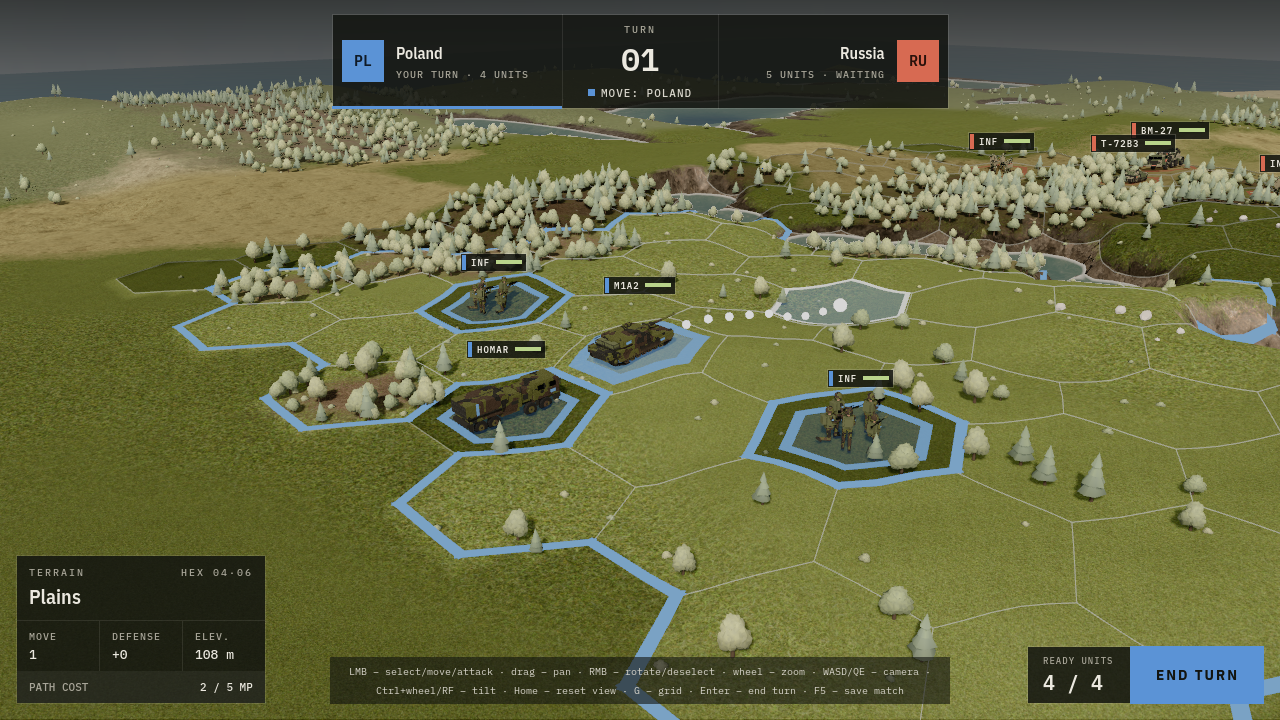
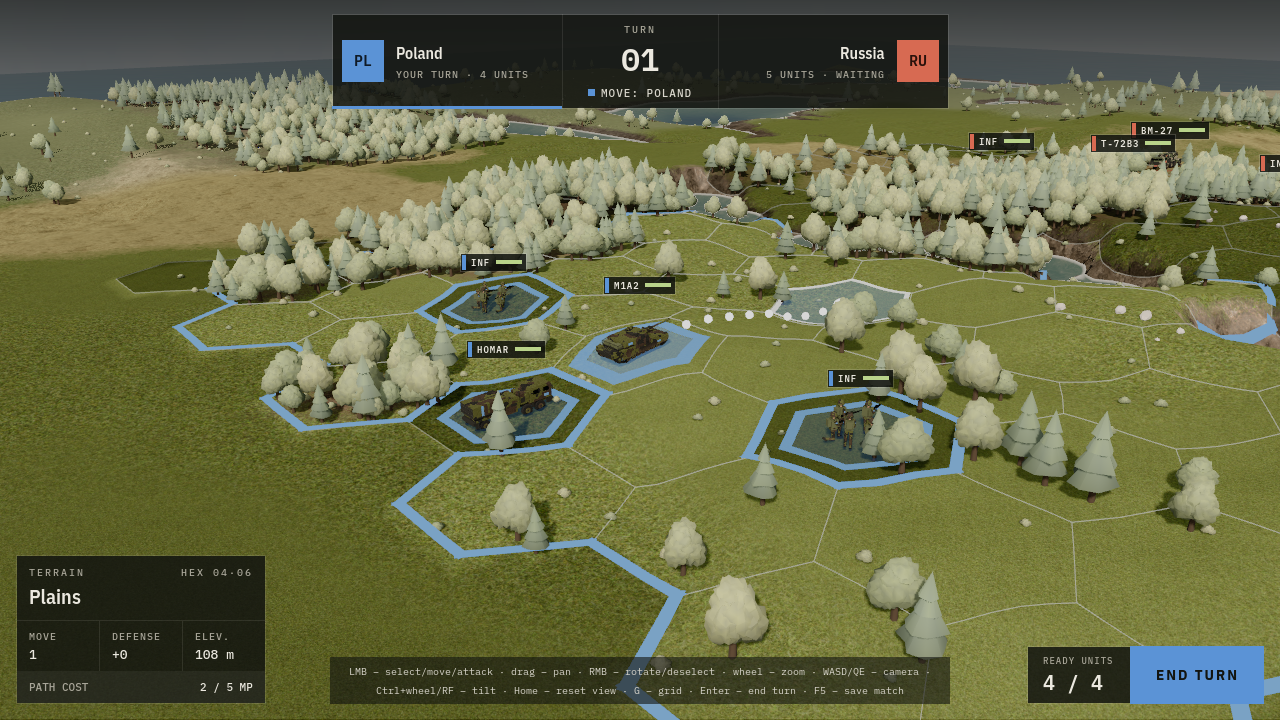
TASK-059: visual scale study – VisualScale presets (current/balanced/realistic) for unit, tree, bush and rock scale, SCREENSHOT_SCALE_PRESET hook; human chose balanced (units 1.1, trees 1.8, bushes 1.4); README shot re-rendered; playtested, done

diff --git a/docs/AGENTIC_WORKFLOW.md b/docs/AGENTIC_WORKFLOW.md
@@ -75,7 +75,7 @@ The agent can't sculpt or texture-paint, but it builds convincing **procedural**
 ## Next steps for the process (optional)
 
 - **Screenshots for the agent** (done, TASK-006): `tools/screenshot.sh [out.png] [--frames=N] [--windows|--linux]` opens the battle scene in a 1280×720 window, waits N rendered frames (default 10), saves a PNG (default `.screenshots/battle.png`) and quits; the last stdout line is `Screenshot saved: <absolute path>`. The agent reads the PNG with its Read tool after a visual change instead of guessing. Same map, units and default camera every run (two runs give byte-identical PNGs). Exit codes: 0 saved, 1 blank/failed capture or script errors in the log, 2 no display or invalid arguments, 124 timeout (60 s for the whole run), 127 Godot not found. Under WSL it renders with the Windows Godot console build by default (`tools/windows_godot.sh`: found like `tools/run_windows.sh`, `GODOT_WIN` overrides; GPU, D3D12, Forward+ with SSAO, ~15 s), so agents see what the human sees; paths and the `SCREENSHOT_*` variables are passed through to Windows, and `Screenshot saved:` is a WSL path. `--linux` forces the Linux build, which needs a graphical environment (WSLg) and renders in software with the Compatibility look (no SSAO); `--windows` fails with 127 when the Windows build is missing. Debug variables: `SCREENSHOT_SELECT_UNIT=<id>` selects a unit and hovers a tile next to it, `SCREENSHOT_CAMERA=<unit id>,<yaw degrees>,<distance>` points the camera at a unit's tile. Follow-up: capturing a scripted game situation.
-- **Unit render sheets** (TASK-036): `tools/render_unit.sh <unit_id> [--faction=<id>] [--views=side,front,top,three_quarter] [--reference=path] [--out=sheet.png] [--windows|--linux]` renders one model from `src/presentation/models/<unit_id>.gd` alone (no `MODEL_SCALE`, faction camo, the battle scene's sun, flat `#5a5d55` background) on a grid in model space (faint every 0.1 unit = 1 m, stronger every 0.5 = 5 m). Orthographic `side` (+X right), `front` (looking along -X) and `top` share one scale, `three_quarter` is perspective (FOV 24, framed like the unit portraits). It writes one PNG per view and a sheet (2 x 2 views, the reference scaled to the height of a view cell on the right) to `.screenshots/units/<unit_id>_<faction>_sheet.png`. The default faction is the first of the catalog entry's `operators` that exists in `data/factions/` (else `poland`); the default reference is the first existing `side` (else `drawing`) image of `docs/design/units/units/<unit_id>/unit.json`, `--reference` overrides it. The last stdout lines are `Render saved: <sheet>`, `Stats: aabb_m=<L>x<W>x<H> triangles=<n> mesh_instances=<n> pivots=<names>` and, when the catalog has all three dimensions, `Real: <L>x<W>x<H> m, diff: <L%>/<W%>/<H%>` (model AABB in metres, 1 model unit = 10 m, vs. the real unit; length = overall length). The AABB covers visible nodes only; triangle and mesh counts include hidden poses (kneeling soldiers' `Stand`), the same rule as the contract budgets. Exit codes as `tools/screenshot.sh`; 2 also for a unit id without a model file, an unknown faction or view, or a missing id. Two runs give byte-identical PNGs. Under WSL it uses the Windows Godot console build (`Godot_v4.5.1-stable_win64_console.exe`, found like `tools/run_windows.sh` via `tools/windows_godot.sh`, `GODOT_WIN` overrides) by default: GPU rendering with D3D12 and Forward+ in ~15 s instead of the slow WSLg software renderer; paths are translated both ways, so `Render saved:` is a WSL path. `--linux` forces the Linux build (needs WSLg), `--windows` fails with 127 when the Windows build is missing. The model contract (upright, centred, footprint, pivots, budgets, shared meshes and camo) is checked for every model x faction by `tests/unit/test_unit_model_contract.gd`.
+- **Unit render sheets** (TASK-036): `tools/render_unit.sh <unit_id> [--faction=<id>] [--views=side,front,top,three_quarter] [--reference=path] [--out=sheet.png] [--windows|--linux]` renders one model from `src/presentation/models/<unit_id>.gd` alone (without `VisualScale.unit_model_scale()`, faction camo, the battle scene's sun, flat `#5a5d55` background) on a grid in model space (faint every 0.1 unit = 1 m, stronger every 0.5 = 5 m). Orthographic `side` (+X right), `front` (looking along -X) and `top` share one scale, `three_quarter` is perspective (FOV 24, framed like the unit portraits). It writes one PNG per view and a sheet (2 x 2 views, the reference scaled to the height of a view cell on the right) to `.screenshots/units/<unit_id>_<faction>_sheet.png`. The default faction is the first of the catalog entry's `operators` that exists in `data/factions/` (else `poland`); the default reference is the first existing `side` (else `drawing`) image of `docs/design/units/units/<unit_id>/unit.json`, `--reference` overrides it. The last stdout lines are `Render saved: <sheet>`, `Stats: aabb_m=<L>x<W>x<H> triangles=<n> mesh_instances=<n> pivots=<names>` and, when the catalog has all three dimensions, `Real: <L>x<W>x<H> m, diff: <L%>/<W%>/<H%>` (model AABB in metres, 1 model unit = 10 m, vs. the real unit; length = overall length). The AABB covers visible nodes only; triangle and mesh counts include hidden poses (kneeling soldiers' `Stand`), the same rule as the contract budgets. Exit codes as `tools/screenshot.sh`; 2 also for a unit id without a model file, an unknown faction or view, or a missing id. Two runs give byte-identical PNGs. Under WSL it uses the Windows Godot console build (`Godot_v4.5.1-stable_win64_console.exe`, found like `tools/run_windows.sh` via `tools/windows_godot.sh`, `GODOT_WIN` overrides) by default: GPU rendering with D3D12 and Forward+ in ~15 s instead of the slow WSLg software renderer; paths are translated both ways, so `Render saved:` is a WSL path. `--linux` forces the Linux build (needs WSLg), `--windows` fails with 127 when the Windows build is missing. The model contract (upright, centred, footprint, pivots, budgets, shared meshes and camo) is checked for every model x faction by `tests/unit/test_unit_model_contract.gd`.
 - **`/model-unit <unit_id> [--faction=<id>]`** (TASK-036): builds or reworks a unit's model from its catalog entry with the `unit-modeler` agent (render with `tools/render_unit.sh`, compare with the reference, at most 4 rounds), then checks `tools/check.sh`, the sheet and the battle screenshot, runs `reviewer` and sets the catalog status to `modeled`. The catalog's "Model review" screen shows the latest sheet next to the reference.
 - **README screenshot**: `tools/readme_screenshot.sh` renders `docs/images/gameplay.png` (the shot at the top of README.md) with a fixed close-up framing. Every visible change to the battle scene re-renders it and commits it with the change (CLAUDE.md "When a task is done", `presentation-engineer`, `unit-modeler`, `/implement-task`), so the README always shows the current game. Under WSL it is rendered by the Windows Godot build (Forward+, SSAO), like all agent screenshots; renders from the Linux build (`--linux`) look different, so don't commit those as the README shot.
 - **AI-vs-AI simulation** (TASK-012): `tools/simulate.sh N [--seed=S] [--max-turns=T] [--factions=<p0>,<p1>] [--verbose]` plays N headless matches (seeds S..S+N-1, default S=1, T=50, factions `poland,russia`; the output names them in a `Factions:` line) with `MatchRunner` (`src/ai/match_runner.gd`) and prints per-player win counts, draws (turn limit), errors and average match length – use it to judge balance changes in `data/**/*.tres` by numbers. Exit codes: 0 ok, 1 a match ended with `error` or script errors, 2 invalid arguments, 127 Godot not found.

diff --git a/docs/GDD.md b/docs/GDD.md
@@ -48,7 +48,7 @@ Target look of the battle screen: `docs/design/` (mock-up made in Claude Design,
 
 **Unit feel** (presentation only, no rule effect): moving units walk tile by tile along their path and turn to face it (TASK-022); while moving, infantry marches (per-soldier step bob and sway, kneeling soldiers stand up and kneel again on arrival) and the tank drives (wheels turn with the distance covered, the hull rocks slightly and tilts with the terrain slope, also at rest) (TASK-025). Before a volley the Homar-K raises its launcher pod on hydraulic actuators and turns it towards the target on its turntable, and stows it after the salvo; launchers without a turntable turn the whole vehicle. Dust and track tread animation are possible follow-ups.
 
-**Visual direction: realism (requested 2026-10-20, TASK-049 … TASK-066):** the battle scene moves from the stylised tabletop look toward a realistic one, as a **Steel Division / Combat Mission-like compromise**: realistic terrain, light, vegetation and weathered vehicles, but a clean, minimal UI and units that stay easy to find and click. Principles: overlays outline areas instead of painting tiles (TASK-049); light and haze of an overcast-to-partly-cloudy Eastern European day, muted olive palette, AgX tonemapping (TASK-051, TASK-054); a camera that sees the horizon when zoomed in and looks down when zoomed out, and **no depth-of-field / tilt-shift** (it makes the scene look like a miniature) (TASK-052); events leave visual traces – tracks, craters, wrecks – with no rule effect (TASK-058, TASK-065). Every effect degrades on a LOW quality preset (TASK-050). CC0 assets are allowed (decided 2026-10-22: textures, HDRI skies, vegetation models; unit models stay procedural – TASK-053). Open decisions: unit/tree scale, performance budget (see Open questions).
+**Visual direction: realism (requested 2026-10-20, TASK-049 … TASK-066):** the battle scene moves from the stylised tabletop look toward a realistic one, as a **Steel Division / Combat Mission-like compromise**: realistic terrain, light, vegetation and weathered vehicles, but a clean, minimal UI and units that stay easy to find and click. Principles: overlays outline areas instead of painting tiles (TASK-049); light and haze of an overcast-to-partly-cloudy Eastern European day, muted olive palette, AgX tonemapping (TASK-051, TASK-054); a camera that sees the horizon when zoomed in and looks down when zoomed out, and **no depth-of-field / tilt-shift** (it makes the scene look like a miniature) (TASK-052); events leave visual traces – tracks, craters, wrecks – with no rule effect (TASK-058, TASK-065). Every effect degrades on a LOW quality preset (TASK-050). CC0 assets are allowed (decided 2026-10-22: textures, HDRI skies, vegetation models; unit models stay procedural – TASK-053). **Unit/tree scale (decided 2026-10-22, TASK-059): preset `balanced`** – units × 1.1 (was 1.3), trees × 1.8, bushes × 1.4, rocks × 1.0 (`VisualScale`); forests read as forests, units in a forest are found mostly by their label. Open decision: performance budget (see Open questions).
 
 **Planned (TASK-041 … TASK-048, decided 2026-10-19):** how a unit animates is a property of the real vehicle, declared per unit in the unit catalog as **mechanisms** with parameters (registry `docs/design/units/mechanisms.json`), not per class – the Homar-K and the 9K57 Uragan are both MLRS but are built differently. Mechanisms: `wheels`, `squad_march`, `launcher` (traverse range – full or limited, the vehicle turns first when the target is outside it; stowed tube direction; firing elevation), `stabilisers` (jacks lowered before a volley), `blast_shields` (cab window shields, if the Uragan research confirms them (?)), `turret_traverse` (tank turret and gun aim before firing, also on counters), `gun_recoil` (idea). The model file copies the unit's mechanisms; the game still reads only `data/` and the models.
 
@@ -236,7 +236,6 @@ Each question lists the tasks that depend on the answer.
 - **Does elevation matter for rules?** TASK-016a generates an elevation per hex (shown in metres in the terrain panel, TASK-024). Possible uses: defense bonus for the higher unit, vision/line of sight, ranged bonus. → future tasks; TASK-011 (rocket artillery) could use it.
 - **Unit mechanisms (animation)**: real values to verify – Uragan launcher traverse range, maximum elevation, stowed facing forward over the cab, rear jacks, cab blast shields (?); Homar-K jack count/position and real maximum elevation (keep 40° for the look?) (?); tank gun elevation limits (?). Behaviour choices proposed but not confirmed: a limited-traverse launcher's vehicle stays turned after the volley; the launcher always fires at its maximum elevation (not scaled with range); durations are global, not per unit; the turret returns to the front after firing; feet of jacks may float slightly on slopes; the catalog ↔ model contract test fails on any parameter drift. → TASK-041 … TASK-047.
 - ~~**Third-party CC0 assets**~~ – decided 2026-10-22: the human allows downloaded CC0 assets – textures and HDRI skies (Poly Haven, ambientCG), vegetation / tree glTF models (TASK-060 option B possible); unit models stay procedural. Recorded in an ADR by TASK-053. → TASK-053, TASK-054, TASK-055, TASK-060.
-- **Realism vs. readability – unit and tree scale** (2026-10-20): units are ≈ 7× oversized relative to trees today. Target is a Steel Division / Combat Mission-like compromise; presets `current` / `balanced` / `realistic` to compare on screenshots. Bigger trees may need unit silhouettes through foliage. → TASK-059, TASK-060, TASK-057, TASK-061.
 - **Performance budget** (2026-10-20): target a D3D12 GPU (Windows, Forward+); the WSLg software renderer is preview-only. Every realism feature must switch off on the LOW preset. Which GPU is the minimum target, and is a MEDIUM preset or a settings screen needed? → TASK-050 and every realism task.
 - **Wrecks** (2026-10-20): proposed **[ASSUMPTION]** – destroyed vehicles leave a cosmetic wreck that hides when a unit enters its tile, smoke for 3 turns, infantry leaves none. Wrecks never affect rules unless a separate rules task decides otherwise. → TASK-065.
 - **Russian vehicle markings** (2026-10-20): proposed **[ASSUMPTION]** – tactical numbers only, no national insignia, never "Z"/"V" symbols; Polish vehicles carry the red-white checkerboard. → TASK-063.

diff --git a/docs/tasks/TASK-059-visual-scale-study.md b/docs/tasks/TASK-059-visual-scale-study.md
@@ -1,6 +1,6 @@
 # TASK-059: Visual scale study – units vs. trees vs. hexes (realism vs. readability decision)
 
-- **Status**: ready (produces material for the human's decision (b); the final values are set by the human)
+- **Status**: done (produces material for the human's decision (b); the final values are set by the human)
 - **Layers**: presentation (scale constants gathered in one place, screenshot hook), tools (`tools/screenshot.gd` env var), tests
 - **Depends on**: soft **TASK-052** (judge with the new camera), soft **TASK-051**. Blocks TASK-060 (tree size) and informs TASK-057/058/063/064.
 - **Model**: sonnet
@@ -53,4 +53,19 @@ None now. If the chosen preset changes how units hide in forests, a later task a
 
 ## Implementation notes
 
-_Filled in by the agent when done._
+- `src/presentation/visual_scale.gd` (`VisualScale`): presets `current` / `balanced` / `realistic` from the table, `preset(name)` (copy; unknown → `current` + warning), static active preset with `apply()` / `reset()` / `apply_values()` (the last one for tests and experiments) and accessors `unit_model_scale()`, `tree_scale()`, `bush_scale()`, `rock_scale()`. Default `current` → the game is unchanged.
+- `UnitModels.MODEL_SCALE` removed; `UnitModels.build()` uses `VisualScale.unit_model_scale()`. The model contract test scales its length/width limits by `unit_model_scale() / 1.3`. The model files' "x unit scale 1.3" comments describe the `current` preset.
+- `MapView`: `_tree_transforms(trees, size_multiplier)` scales instances about their base (trees + trunks × `tree_scale`, bushes × `bush_scale`, rocks × `rock_scale`); `ScatterPlanner` and scatter positions are untouched (larger presets let crowns overlap more).
+- Hook: `SCREENSHOT_SCALE_PRESET=<name>` in `tools/screenshot.gd` (passed to the Windows build via `tools/screenshot.sh`). **Only the screenshot tool reads it** – `SCREENSHOT_SCALE_PRESET=… tools/run_windows.sh` does nothing in the game.
+- Tests: `tests/unit/test_visual_scale.gd` (preset values, unknown-name fallback, default active preset, unit AABB at 0.9 is 0.9/1.3 of the one at 1.3, tree transform scales with `tree_scale` keeping its position).
+
+### Screenshots (`.screenshots/scale/`)
+
+`<preset>_default.png` (default framing), `<preset>_close.png` (README framing: `SCREENSHOT_SELECT_UNIT=2 SCREENSHOT_CAMERA=2,-40,11`), `<preset>_forest.png` (`SCREENSHOT_CAMERA=7,200,9`: Russian infantry, T-72B3 and BM-27 at the east forest edge). Reproduce: `SCREENSHOT_SCALE_PRESET=balanced SCREENSHOT_CAMERA=7,200,9 tools/screenshot.sh out.png`.
+
+- **current**: all 9 units easy to spot at the default zoom. Forests are a carpet of toy trees; infantry and tanks are taller than the trees, and the BM-27 is as tall as the conifers. Units are never hidden, and their click areas are the largest (≈ ⅔ of a hex).
+- **balanced**: forests read as dense stands. Polish units on open ground stay clear. The T-72B3 at the forest edge is about crown height, with a crown overlapping its front. Russian infantry inside the forest is almost fully hidden, so you find it by its label. Close-up: the Homar is partly covered by trees on the neighbouring hex. Click areas are ≈ 15 % smaller, and some are covered by foliage.
+- **realistic**: the east forest is a solid canopy. Units in or next to it (T-72B3, BM-27, infantry) show only as labels and fragments of their hex outline. Trees are 2–3× tank height, so they look plausible, but the units can't be seen or clicked well. This preset needs the occlusion-silhouette follow-up.
+- Labels and hex outlines stay readable in all three presets. Clicking was not tested; the click-area remarks come from sizes and overlap in the screenshots.
+
+**Decision (human, 2026-10-22): `balanced`.** `VisualScale.DEFAULT_PRESET = &"balanced"`; an unknown preset name now falls back to the default (`balanced`). Tests updated (`test_default_active_preset_is_balanced`; the proportional-shrink test pins `current` first). Recorded in GDD "Visual direction: realism", and the open question was removed. `docs/images/gameplay.png` re-rendered: trees now reach tank height, and the Homar is slightly covered by one conifer. The model files' "x unit scale 1.3" comments describe the pre-decision `current` scale that the contract limits are written for.

diff --git a/docs/tasks/BACKLOG.md b/docs/tasks/BACKLOG.md
@@ -61,13 +61,13 @@ Rows after TASK-001 are in priority order (top = next to implement).
 | [TASK-050](TASK-050-graphics-quality.md) | Graphics quality presets LOW/HIGH, auto-detected, `--quality=` override | 🔵 done | – |
 | [TASK-051](TASK-051-lighting-atmosphere-v3.md) | Lighting & atmosphere v3: AgX, lower sun, aerial perspective, SSIL, subtle glow, colour-grading LUT | 🔵 done | soft: TASK-050 |
 | [TASK-052](TASK-052-camera-horizon.md) | Camera v2: lower pitch with horizon, top-down when far, backdrop terrain beyond the map (generator-independent) | 🔵 done | soft: TASK-051, TASK-050 |
-| [TASK-059](TASK-059-visual-scale-study.md) | Visual scale study: units vs. trees vs. hexes (screenshots for the human's decision) | 🟢 ready | soft: TASK-052, TASK-051 |
+| [TASK-059](TASK-059-visual-scale-study.md) | Visual scale study: units vs. trees vs. hexes (screenshots for the human's decision) | 🔵 done | soft: TASK-052, TASK-051 |
 | [TASK-053](TASK-053-third-party-assets.md) | Third-party CC0 assets: ADR, `assets/third_party/`, credits manifest + test | 🔵 done | – (decision (a) 2026-10-22: CC0 allowed – textures, HDRI, vegetation models; unit models stay procedural) |
 | [TASK-054](TASK-054-hdri-sky.md) | HDRI sky (CC0 Poly Haven) as sky, ambient and reflections | 🔵 done | **TASK-053**, **TASK-051** |
 | [TASK-055](TASK-055-terrain-splat-shader.md) | Terrain shader v3: blended CC0 PBR layers by terrain type + slope, triplanar, anti-tiling | 🔵 done | **TASK-053** (soft: TASK-050, TASK-051, TASK-052; related TASK-035) |
 | [TASK-056](TASK-056-water-v2.md) | Water v2: depth colour, shore foam, scrolling ripples, SSR | 🔵 done | soft: TASK-050, TASK-054, TASK-055 |
-| [TASK-057](TASK-057-grass-wind.md) | Grass: MultiMesh alpha cards, distance LOD, shared wind shader | 🔴 blocked | **TASK-050**, **TASK-059** (sizes from `VisualScale`) (soft: TASK-055, TASK-052) |
-| [TASK-061](TASK-061-forest-edges.md) | Forest edges and undergrowth: shrub belts along borders, forest-floor cover | 🔴 blocked | **TASK-059** (soft: TASK-057, TASK-060) |
+| [TASK-057](TASK-057-grass-wind.md) | Grass: MultiMesh alpha cards, distance LOD, shared wind shader | 🟢 ready | **TASK-050**, **TASK-059** (sizes from `VisualScale`) (soft: TASK-055, TASK-052) |
+| [TASK-061](TASK-061-forest-edges.md) | Forest edges and undergrowth: shrub belts along borders, forest-floor cover | 🟢 ready | **TASK-059** (soft: TASK-057, TASK-060) |
 | [TASK-058](TASK-058-ground-decals.md) | Ground decals from events: track marks, craters, scorch | 🟢 ready | soft: TASK-050, TASK-055, TASK-065 |
 | [TASK-060](TASK-060-trees-v3.md) | Trees v3: leaf-card crowns, trunks/branches, wind, per-instance variation | 💡 idea | **TASK-059**, **TASK-057**; human decision: procedural (A) vs. CC0 glTF (B, allowed – needs TASK-053 done) |
 | [TASK-062](TASK-062-unit-surface-wear.md) | Unit surface v2: chamfers in the existing helpers, weathering paint on RGB masks (study shader) – presentation + `unit-modeler` | 🔴 blocked | **TASK-030** |

diff --git a/docs/tasks/TASK-061-forest-edges.md b/docs/tasks/TASK-061-forest-edges.md
@@ -1,6 +1,6 @@
 # TASK-061: Forest edges and undergrowth – shrub belts along forest borders, ground cover under trees
 
-- **Status**: blocked
+- **Status**: ready
 - **Layers**: presentation (`scatter_planner.gd` edge rules, `map_view.gd` scatter, foliage material), tests
 - **Depends on**: soft **TASK-057** (wind include; tall-grass clumps reuse the grass card), soft **TASK-060** (shrubs use the new foliage shader if done), **TASK-059** (sizes: all scales below are at the `current` preset and are multiplied by `VisualScale.bush_scale` / `tree_scale`)
 - **Model**: sonnet

diff --git a/docs/tasks/TASK-057-grass-wind.md b/docs/tasks/TASK-057-grass-wind.md
@@ -1,6 +1,6 @@
 # TASK-057: Grass – MultiMesh alpha-card clumps near the camera, distance LOD, shared wind shader
 
-- **Status**: blocked
+- **Status**: ready
 - **Layers**: presentation (pure `GrassPlanner`, `assets/shaders/grass.gdshader`, shared wind include + global shader uniforms, `map_view.gd`), tests
 - **Depends on**: **TASK-050** (`grass_density`, `wind`), soft **TASK-055** (grass tint matches the ground layers), soft **TASK-059** (grass height follows the chosen unit/tree scale), soft **TASK-052** (low camera shows grass at grazing angles)
 - **Model**: sonnet
